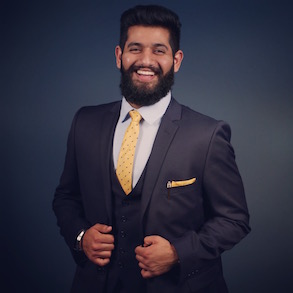
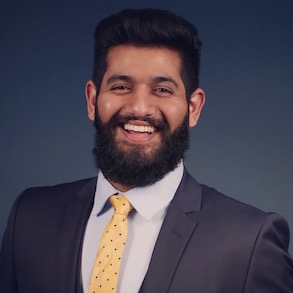
moving stations

diff --git a/index.html b/index.html
@@ -34,37 +34,17 @@
 <script type="text/javascript" src="js/classie.js"></script>
 <script type="text/javascript" src="contactform/contactform.js"></script>
 <script src="https://cdnjs.cloudflare.com/ajax/libs/Chart.js/2.5.0/Chart.min.js"></script>
+<script type="text/javascript" src="js/subscribe.js"></script>
 
 </head>
 
 <body>
 
-<!-- Full Page Banner Start -->
-<!--  
-<header class="header" id="header">
-<div class="dark-wrapper">	
-    <div class="container">
-    	<figure class="logo animated fadeInDown delay-07s">
-        	<a href="#"><img src="img/logo.png" alt=""></a>	
-        </figure>	
-        <h1 class="animated fadeInDown delay-07s">Kenya's First Real Estate Investment Platform</h1>
-        <ul class="we-create animated fadeInUp delay-1s">
-        	<li>Modern</li>
-            <li>Efficient</li>
-            <li>Competitive</li>
-        </ul>
-            <a class="link animated fadeInUp delay-1s" href="#">Join Us</a>
-    </div>
-</div>
-</header>
--->
-<!-- Full Page Banner End -->
-
 <!-- Navbar Start -->
 <nav class="main-nav-outer" id="test">
 	<div class="container">
         <ul class="main-nav">
-            <li class="fl-lt"><a href="#"><img class="slogo" src="img/small-logo.png" alt="eJenga"></a></li>
+            <li><a href="#"><img class="slogo" src="img/logo-hor-w-nb.png" alt="eJenga"></a></li>
             <li><a href="#about">About</a></li>
             <li><a href="#invest">How It Works</a></li>
             <li><a href="#benefit">Benefits</a></li>
@@ -89,7 +69,12 @@
             <li>Efficient</li>
             <li>Competitive</li>
         </ul>
-            <a class="link animated fadeInUp delay-1s" href="#">Join Us</a>
+        <!-- <div class="form-group">
+            <input type="subscribe" class="form-control input-text" name="subscirbe" id="subscribe" placeholder="Email Address" data-rule="email" data-msg="Please enter a valid email" />
+            <div class="validation"></div>
+        </div> -->
+        <a class="link animated fadeInUp delay-1s" href="#">Join Us</a>
+        <script type="text/javascript" src="//s3.amazonaws.com/downloads.mailchimp.com/js/signup-forms/popup/embed.js" data-dojo-config="usePlainJson: true, isDebug: false"></script><script type="text/javascript">require(["mojo/signup-forms/Loader"], function(L) { L.start({"baseUrl":"mc.us14.list-manage.com","uuid":"31bd2bc8dcc49dae0d4b41951","lid":"010d4d7f98"}) })</script>
 	</div>
 </div>
 </section>
@@ -112,25 +97,29 @@
 <!-- About Start -->
 <section class="main-section" id="about">
     <div class="container">
-        <h2 class="animated fadeInDown delay-05s">What is eJenga</h2>
-        
+        <h2 class="animated fadeInDown delay-05s">Property Investment made easy with eJenga</h2>
+        <div class="animated fadeInUp delay-07s text-center">
+            <img src="img/eJenga-way.png">
+        </div>
         <div class="row">
-            <div class="col-lg-7 wow fadeInLeft">
-                <h6 class="animated fadeInUp delay-07s">Kenya's first crowdfunded real estate investment platform</h6>
-                <p class="animated fadeInUp delay-07s">Finally, Property investment is made easy with e-Jenga. Investors can now own part of a property without huge financial and timely commitments. Undertake all transactions online, including digital legal documentation, funds transfer &amp; ownership recordation. Manage and monitor your investments through an online portal; receive automated rental income payments. </p>                
-                <br>
-                <p class="animated fadeInUp delay-07s">In the future, e-Jenga hopes to act as an intermediary to facilitate funding in both directions between the investors and the property developers. e-Jenga aims to revolutionise the traditional way of project financing in Kenya where developers will be able to Showcase their properties on e-Jenga to access a diverse investor base whilst growing their company’s social network.</p>
+            <div class="col-lg-6 wow fadeInLeft">
+                <h6 class="animated fadeInUp delay-07s">The eJenga Way</h6>
+                <ul class="animated fadeInUp delay-07s">
+                    <li>Investors can now own part of a property without huge financial and timely commitments</li>
+                    <li>Undertake all transactions online, including digital legal documentation, funds transfer &amp; ownership recordation</li>
+                    <li>Manage and monitor your investments through an online portal; receive automated rental income payments</li>
+                </ul>
             </div>
-             <div class="col-lg-5 wow fadeInRight">
-                <h6 class="animated fadeInUp delay-09s">Why Kenyan Real Estate?</h6>
+             <div class="col-lg-6 wow fadeInRight">
+                <h6 class="animated fadeInUp delay-09s">The eJenga Vision</h6>
             <ul class="animated fadeInUp delay-09s">
-                <li>The economic outlook in Kenya remains positive</li>
-                <li>Stabilisation of the Kenyan Shilling</li>
-                <li>New office absorption levels increasing</li>
-                <li>Rising residential mortgage market</li>
-                <li>Increasing demand for Industrial Space</li>
-                <li>Infrastructural developments contributing to increased demand in the right locations</li>
-                <li>Opportunity for high capital gains in niche markets</li>
+                <li>
+                    e-Jenga hopes to act as an intermediary to facilitate funding in both directions between the investors and the property developers
+                </li>
+                <li>
+                    e-Jenga aims to revolutionise the traditional way of project financing in Kenya where developers will be able to showcase their properties on e-Jenga to access a diverse investor base whilst growing their company’s social network
+                </li>
+
             </ul>
             </div>
         </div>
@@ -146,29 +135,32 @@
         <div class="row">
             <div class="col-lg-4 featured-work">
                 <div class="featured-box">
-                        <img class="invest-img" src="img/invest2.svg">
+                        <img class="invest-img" src="img/invest.png">
                         <h3>Investing in a Property</h3>
                         <br>
-                        <p>Investors can view our properties online and filter according to their preferred investment theme  depending on whether the investor is growth or income focused. They are hand-picked by Kenya’s top Real Estate Professionals. We take care of the tedious parts; like solicitors and mortgage costs through a one-time fee.</p>
+                        <p>Invest in properties online and filter according to your preferred investment theme. They are hand-picked by Kenya’s top Real Estate Professionals. We take care of the tedious parts; like solicitors and mortgage costs through a one-time fee</p>
                 </div>
                 </div>
                 <div class="col-lg-4 featured-work">
                 <div class="featured-box">
-                        <img class="invest-img" src="img/rent.svg">
-                        <h3>Earn Monthly Rental Income</h3>
+                        <img class="invest-img" src="img/earn.png">
+                        <h3>Earn Quarterly Rental Income<sup>*</sup></h3>
                         <br>
-                        <p>Each month, you will receive rental income weighted by your proportion of the property that you own. A small percentage of the rent is used for letting, advertising &amp; maintaining the property. The investor portal can you be used to monitor your investment with valuations occurring at each quarter.</p>
+                        <p>Each quarterly income weighted by your proportion of the property that you own. A percentage (+ VAT) of the rent is used for letting, advertising &amp; maintaining the property. The investor portal can be used to monitor your investment with valuations occurring at each quarter</p>
                 </div>
                 </div>
                 <div class="col-lg-4 featured-work">
                 <div class="featured-box">
-                        <img class="invest-img" src="img/sell.svg">
-                        <h3>Sell your Investment</h3>
+                        <img class="invest-img" src="img/sell.png">
+                        <h3>Sell your Investment<sup>*</sup></h3>
                         <br>
-                        <p>Offer your investments to other investors at your chosen price through our online ‘re-sale’ marketplace. Flexibility is offered on the amount of your holdings you wish to sell. Alternatively, investors are given the opportunity to sell their holdings at market price every 3 years at no cost.</p>
+                        <p>Offer your investments to other investors at your chosen price through our online ‘re-sale’ marketplace<sup>**</sup>. Flexibility is offered on the amount of your holdings you wish to sell. Alternatively, investors are given the opportunity to sell their holdings at market price every 3 years at no cost</p>
                 </div>
                 </div>
         </div>
+        <sup>*</sup>Your investment value can go up or down. Historical performance is not conclusive of future results
+        <br />
+        <sup>**</sup>Subject to buy/sell market liquidity
     </div>
 </section>
 <!-- How To Invest End -->
@@ -179,20 +171,12 @@
         <h2>Investor Benefits</h2>
         <h6></h6>
         <div class="row">
-            <div class="col-lg-4 wow fadeInLeft delay-05s">
+            <div class="col-lg-2 wow fadeInLeft delay-05s">
                 <div class="featured-box">
-                        <img class="benefit-img" src="img/rental.svg">
+                        <img class="benefit-img" src="img/earn-w.png">
                         <h3>Rental Income</h3>
                         <br>
-                        <p>Earn monthly rental income on your properties at 4.70%</p>
-                </div>
-            <!-- </div>
-            <div class="col-lg-4 wow fadeInLeft delay-05s"> -->
-                <div class="featured-box">
-                        <img class="benefit-img" src="img/appreciate.svg">
-                        <h3>Property Appreciation</h3>
-                        <br>
-                        <p>Receieve capital gains in the form of property appreciation and growth</p>
+                        <p>Earn quarterly rental income on your properties</p>
                 </div>
             </div>
             <div class="col-lg-8 wow fadeInUp delay-05s">
@@ -215,13 +199,15 @@
                       }
                     });
                 </script>
-            </div>
-
-            <!-- <figure class="col-lg-8 text-right wow fadeInUp delay-02s">
-                <img src="img/placeholder-graph.png" alt="">
-            </figure> -->
-        
-        
+            </div>  
+            <div class="col-lg-2 wow fadeInLeft delay-05s">
+                <div class="featured-box">
+                    <img class="benefit-img" src="img/appreciate.png">
+                    <h3>Property Appreciation</h3>
+                    <br>
+                    <p>Receieve capital gains in the form of property appreciation and growth</p>
+                </div>
+            </div>      
     </div>
 </section>
 <!-- Investor Benefits End -->
@@ -230,13 +216,13 @@
 <section class="main-section paddind alabaster" id="properties">
 	<div class="container">
     	<h2>Properties</h2>
-    	<h6>Brief description about the different types of properties.</h6>
       <div class="propertiesFilter">  
         <ul class="properties-nav wow fadeIn delay-02s">
         	<li><a href="#" data-filter="*" class="current" >All</a></li>
             <li><a href="#" data-filter=".land" >Land</a></li>
             <li><a href="#" data-filter=".residential" >Residentail</a></li>
-            <li><a href="#" data-filter=".commercial" >Commercial</a></li>
+            <li><a href="#" data-filter=".commercial" >Office</a></li>
+            <li><a href="#" data-filter=".industrial" >Industrial</a></li>
         </ul>
        </div> 
         
@@ -283,7 +269,7 @@
 		<b class="quote-right wow fadeInDown delay-03"><i class="fa-quote-right"></i></b>
     	<div class="row">
         	<div class="col-lg-12">
-            	<p class="testimonial-part-haead wow fadeInDown delay-05">eJenga has changed my life - I never knew investing could be this easy.</p>
+            	<p class="testimonial-part-haead wow fadeInDown delay-05 text-center">eJenga has changed my life - I never knew investing could be this easy.</p>
             </div>
         </div>
     	<ul class="testimonial wow fadeIn delay-05s">
@@ -302,12 +288,11 @@
 <section class="main-section team" id="team">
 	<div class="container">
         <h2>Team</h2>
-        <h6>Take a closer look into our amazing team. We won’t bite.</h6>
         <div class="team-leader-block clearfix">
             <div class="team-leader-box">
                 <div class="team-leader wow fadeInDown delay-03s"> 
                     <div class="team-leader-shadow"><a href="#"></a></div>
-                    <img src="img/team-leader-pic1.jpg" alt="">
+                    <img src="img/ns.jpeg" alt="">
                     <ul>
                         <li><a href="#" class="fa-twitter"></a></li>
                         <li><a href="#" class="fa-facebook"></a></li>
@@ -316,13 +301,16 @@
                     </ul>
                 </div>
                 <h3 class="wow fadeInDown delay-03s">Navraj Singh</h3>
-                <span class="wow fadeInDown delay-03s">Title</span>
-                <p class="wow fadeInDown delay-03s">Description</p>
+               <!--  <span class="wow fadeInDown delay-03s">Title</span> -->
+                <br />
+                <div class="wow fadeInDown delay-09s">
+                    MEng Civil Engineering Graduate of Imperial College London from Nairobi. Currently works in London for a leading global investment bank within real estate
+                </div>
             </div>
             <div class="team-leader-box">
                 <div class="team-leader  wow fadeInDown delay-06s"> 
                     <div class="team-leader-shadow"><a href="#"></a></div>
-                    <img src="img/team-leader-pic2.jpg" alt="">
+                    <img src="img/mp.jpg" alt="">
                     <ul>
                         <li><a href="#" class="fa-twitter"></a></li>
                         <li><a href="#" class="fa-facebook"></a></li>
@@ -331,8 +319,11 @@
                     </ul>
                 </div>
                 <h3 class="wow fadeInDown delay-06s">Mayuresh Patel</h3>
-                <span class="wow fadeInDown delay-06s">Title</span>
-                <p class="wow fadeInDown delay-06s">Description</p>
+                <!-- <span class="wow fadeInDown delay-06s">Title</span> -->
+                <br />
+                <div class="wow fadeInDown delay-09s">
+                    MEng Chemical Engineering Graduate from Imperial College London from Mombasa. Currently works in Aberdeen for a world leading independent Oil and Gas Company supporting offshore and onshore production facilities
+                </div>
             </div>
             <div class="team-leader-box">
                 <div class="team-leader wow fadeInDown delay-09s"> 
@@ -346,8 +337,12 @@
                     </ul>
                 </div>
                 <h3 class="wow fadeInDown delay-09s">Aditya Sakhuja</h3>
-                <span class="wow fadeInDown delay-09s">Title</span>
-                <p class="wow fadeInDown delay-09s">Description</p>
+                <!-- <span class="wow fadeInDown delay-09s">Title</span> -->
+                <br />
+                <div class="wow fadeInDown delay-09s">
+                    A true tech-fanatic and entrepreneur at heart, Aditya receieved his Bachelors and Masters degree in Electronic and Information Engineering from Imperial College London. Recently founded an innovative bar automation startup in London    
+                </div>
+                
             </div>
         </div>
     </div>

diff --git a/css/style.css b/css/style.css
@@ -374,6 +374,7 @@ color: #fff;
 }
 .featured-box p{
 	line-height:22px;
+	text-align: left;
 }
 .featured-work p.padding-b{
 	padding-bottom:35px;
@@ -859,6 +860,10 @@ border: 2px solid #fff;
 .input-btn:hover{
 	background: #2e2e2e;
 	color: #fff;
+}
+
+.subscribe {
+	width: 40%;
 }
 
 .validation {
